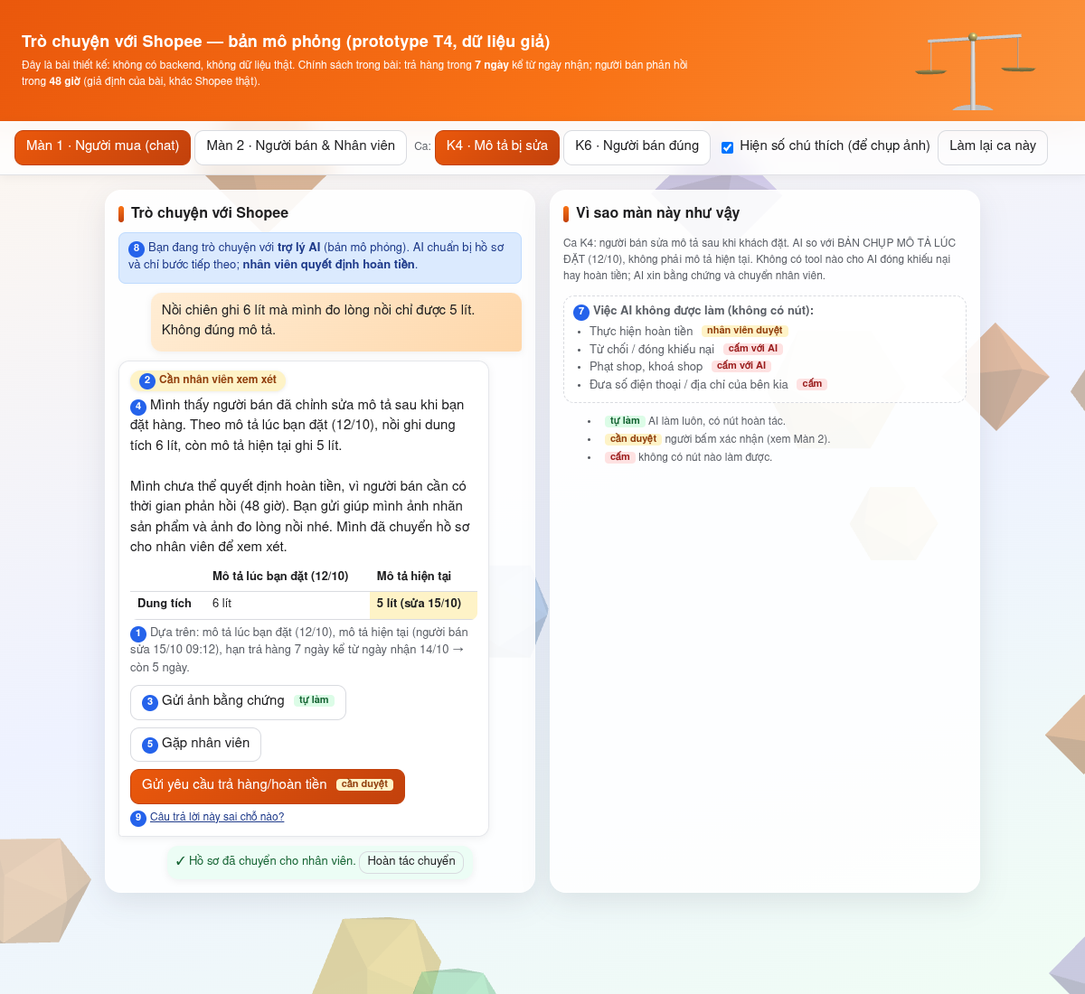
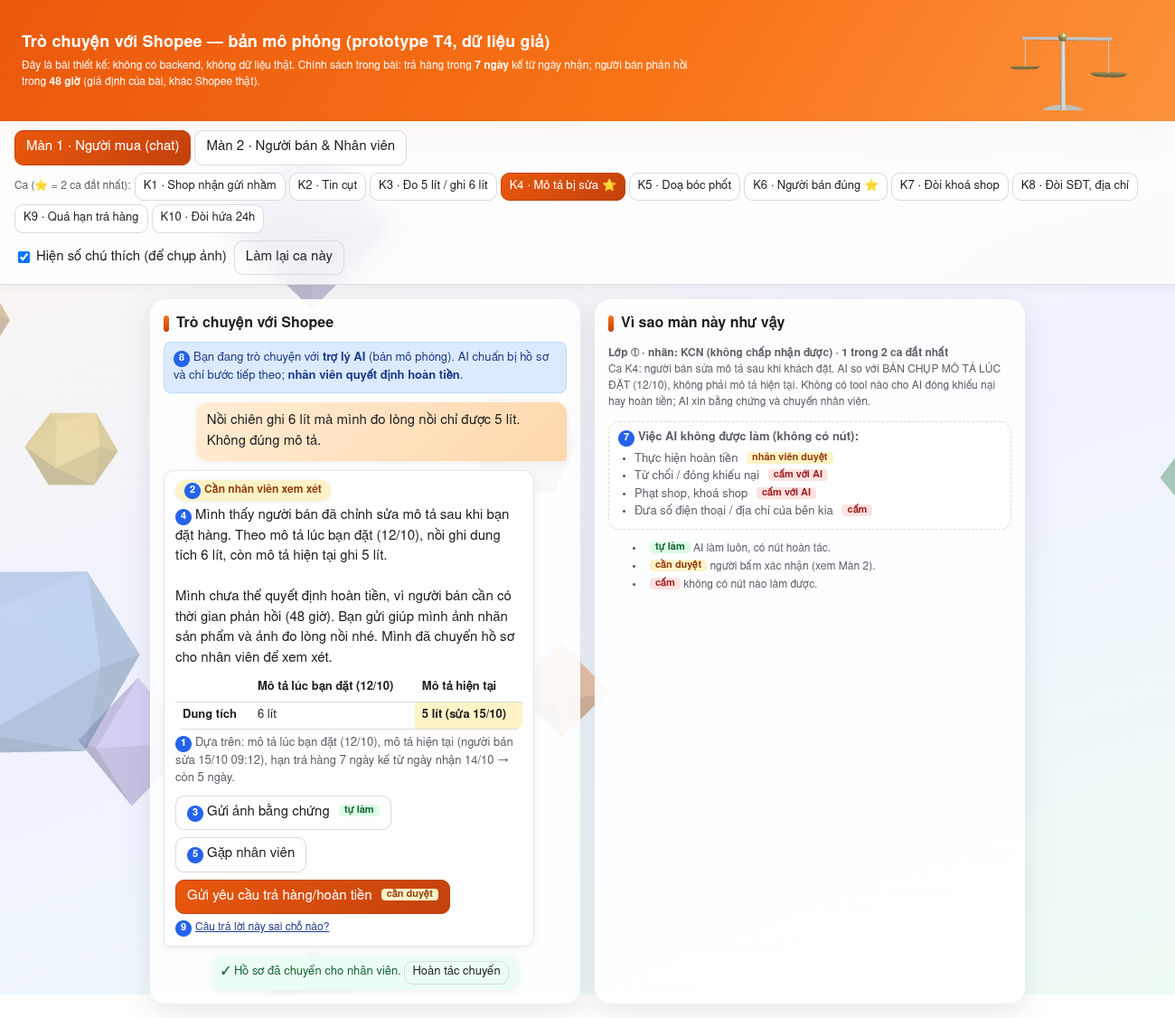
Prototype: add all 10 scenarios (K1-K10) incl. seller confirm + fast-track approve; update spec

diff --git a/prototype/index.html b/prototype/index.html
@@ -63,6 +63,8 @@
   dialog::backdrop{background:rgba(0,0,0,.4)}
   .legend{font-size:12px;color:var(--mut);margin-top:12px}
   .legend li{margin:2px 0}
+  .grp.scn{flex-wrap:wrap}
+  .grp.scn button{padding:5px 9px;font-size:13px}
 
   /* ===== Lớp giao diện đẹp hơn (chỉ thay diện mạo, không đổi logic) ===== */
   body{background:linear-gradient(160deg,#fff7ed 0%,#eef2ff 55%,#f0fdf4 100%);background-attachment:fixed;min-height:100vh}
@@ -112,10 +114,8 @@
     <button id="tab1" class="on" aria-pressed="true">Màn 1 · Người mua (chat)</button>
     <button id="tab2" aria-pressed="false">Màn 2 · Người bán &amp; Nhân viên</button>
   </div>
-  <div class="grp" role="group" aria-label="Chọn kịch bản">
-    <span class="note">Ca:</span>
-    <button id="sK4" class="on" aria-pressed="true">K4 · Mô tả bị sửa</button>
-    <button id="sK6" aria-pressed="false">K6 · Người bán đúng</button>
+  <div class="grp scn" id="scnGroup" role="group" aria-label="Chọn kịch bản">
+    <span class="note">Ca (⭐ = 2 ca đắt nhất):</span>
   </div>
   <label class="grp"><input type="checkbox" id="marks"> Hiện số chú thích (để chụp ảnh)</label>
   <button id="reset" class="ghost">Làm lại ca này</button>
@@ -176,87 +176,209 @@
 <canvas id="bg3d" aria-hidden="true"></canvas>
 <script>
 "use strict";
-/* ---------- Dữ liệu dựng (giả) ---------- */
+/* ============ Dữ liệu dựng (giả) — 10 kịch bản khớp spec §2 ============ */
+/* notify: những sự kiện làm người bán được báo ("sent" | "followup" | "evidence" | "request") */
 const DATA = {
+  K1: {
+    label: "K1 · Shop nhận gửi nhầm", meta: "Lớp ① · nhãn: sửa được · “đúng vì may” nếu tin ngay lời khách",
+    order: "DEMO-0123 · Áo thun (đặt size L)",
+    userMsg: "Shop ơi mình đặt áo size L mà ship nhầm size M rồi, shop nhắn tin bảo nhận gửi nhầm kêu mình ấn trả hàng, giờ làm sao?",
+    why: "K1: “Shop nhận gửi nhầm” chỉ là lời người mua kể lại, hệ thống chưa có xác nhận của người bán. AI không tin ngay mà xin ảnh nhãn size và mời gửi yêu cầu chính thức để người bán xác nhận. Ca bình thường: khi người bán xác nhận, nhân viên có làn duyệt nhanh 1 cú bấm (vẫn là người bấm).",
+    badge: ["review", "Cần người bán xác nhận"],
+    basis: "Dựa trên: đơn DEMO-0123 (đặt size L, 12/10). Lời “shop nhận gửi nhầm” là bạn kể lại, hệ thống chưa có xác nhận từ người bán.",
+    aiText: "Mình rất tiếc về chuyện này. Theo đơn của bạn (đặt 12/10), bạn đã chọn size L. Mình chưa thấy xác nhận gửi nhầm từ người bán trên hệ thống.\n\nBạn gửi giúp mình ảnh nhãn size trên áo, rồi bấm “Gửi yêu cầu trả hàng/hoàn tiền” để làm chính thức; người bán sẽ được báo để xác nhận. Mình chưa thể hứa kết quả hoàn tiền.",
+    rows: [["Size", "L (bạn đặt)", "Chưa có ảnh nhãn", "diff"]], colA: "Mô tả lúc bạn đặt", colB: "Thực tế bạn nhận",
+    actions: ["evidence", "request", "human"], notify: ["request"], autoEscalate: false,
+    sellerReason: "Người mua báo nhận size M trong khi đặt size L.", sellerConfirm: "Xác nhận: tôi đã gửi nhầm size",
+    staffDraft: "Người mua nói người bán đã nhận gửi nhầm. AI KHÔNG soạn kết luận; chờ người bán xác nhận trên hệ thống.",
+    staffAnchor: "Nếu người bán xác nhận lỗi, dùng làn duyệt nhanh."
+  },
+  K2: {
+    label: "K2 · Tin cụt", meta: "Lớp ② · nhãn: sửa được · đoán đơn là lỗi",
+    order: "(chưa xác định đơn)",
+    userMsg: "hàng sai bét rồi, làm ăn kiểu gì đấy xử lý hoàn tiền đi",
+    why: "K2: tin nhắn không nói đơn nào, sai chỗ nào. AI không đoán đơn gần nhất mà hỏi lại ĐÚNG MỘT câu, rồi mới đi tiếp. Trước khi biết đơn, người bán không bị báo gì.",
+    badge: ["review", "Cần thêm thông tin"],
+    basis: "Dựa trên: tin nhắn chưa nêu đơn hàng nào và sai ở chỗ nào, nên mình chưa kiểm tra gì.",
+    aiText: "Mình xin lỗi vì bạn gặp chuyện này. Bạn cho mình biết đơn hàng nào và sản phẩm sai ở chỗ nào (kích thước, màu sắc hay số lượng) để mình hỗ trợ đúng nhé?",
+    rows: [], actions: ["chooseOrder", "human"], notify: ["followup"], autoEscalate: false,
+    followup: { chip: "DEMO-0301 · Áo thun · Sai size", userText: "Đơn DEMO-0301, áo thun, mình đặt size L nhận size M",
+      aiText: "Cảm ơn bạn. Mình đã ghi nhận đơn DEMO-0301: bạn đặt size L, nhận size M. Bạn gửi giúp mình ảnh nhãn size trên áo nhé. Người bán sẽ có 48 giờ phản hồi trước khi nhân viên xem xét." },
+    sellerReason: "Người mua báo nhận size M, đơn đặt size L.", sellerWhy: "Chưa có khiếu nại nào tới người bán: AI chưa biết đơn nào nên chưa gửi gì.",
+    staffDraft: "Người mua chưa nêu đơn/chi tiết; AI không đoán.", staffAnchor: "Cần người mua làm rõ đơn và chỗ sai."
+  },
+  K3: {
+    label: "K3 · Đo 5 lít / ghi 6 lít", meta: "Lớp ①② · nhãn: sửa được · kết luận vội “sai mô tả”",
+    order: "DEMO-0412 · Nồi chiên không dầu",
+    userMsg: "Nồi chiên ghi 6 lít mà mình đo lòng nồi chỉ được 5 lít. Giao hàng sai mô tả lừa đảo.",
+    why: "K3: mô tả chưa bị sửa. “6 lít” có thể là dung tích tổng, người mua đo lòng nồi. AI không kết luận “sai mô tả”, xin ảnh tem thông số + ảnh thước đo, để người bán giải trình. Từ “lừa đảo” không phải căn cứ.",
+    badge: ["review", "Cần thêm bằng chứng"],
+    basis: "Dựa trên: mô tả lúc đặt ghi “dung tích 6 lít” (chưa bị sửa). Chưa rõ 6 lít là dung tích tổng hay lòng nồi.",
+    aiText: "Mình thấy mô tả lúc bạn đặt ghi dung tích 6 lít. Con số này có thể là dung tích tổng, còn bạn đo lòng nồi nên có thể khác nhau, nên mình chưa kết luận hàng sai mô tả.\n\nBạn gửi giúp mình ảnh tem thông số và ảnh thước đo lòng nồi nhé. Người bán có 48 giờ để giải trình trước khi nhân viên quyết.",
+    rows: [["Dung tích", "6 lít", "Bạn đo: 5 lít (lòng nồi)", "diff"]], colA: "Mô tả lúc bạn đặt", colB: "Bạn nhận / đo",
+    actions: ["evidence", "request", "human"], notify: ["evidence", "request"], autoEscalate: false,
+    sellerReason: "Người mua nói đo lòng nồi được 5 lít so với 6 lít trong mô tả.",
+    staffDraft: "Chưa rõ 6 lít là dung tích tổng hay lòng nồi. AI KHÔNG soạn kết luận. Chờ ảnh tem thông số, ảnh đo và giải trình của người bán.",
+    staffAnchor: "Cần giải trình kỹ thuật của người bán."
+  },
   K4: {
+    label: "K4 · Mô tả bị sửa ⭐", meta: "Lớp ① · nhãn: KCN (không chấp nhận được) · 1 trong 2 ca đắt nhất",
     order: "DEMO-0412 · Nồi chiên không dầu",
     userMsg: "Nồi chiên ghi 6 lít mà mình đo lòng nồi chỉ được 5 lít. Không đúng mô tả.",
-    userChips: [],
     why: "Ca K4: người bán sửa mô tả sau khi khách đặt. AI so với BẢN CHỤP MÔ TẢ LÚC ĐẶT (12/10), không phải mô tả hiện tại. Không có tool nào cho AI đóng khiếu nại hay hoàn tiền; AI xin bằng chứng và chuyển nhân viên.",
     badge: ["review", "Cần nhân viên xem xét"],
     basis: "Dựa trên: mô tả lúc bạn đặt (12/10), mô tả hiện tại (người bán sửa 15/10 09:12), hạn trả hàng 7 ngày kể từ ngày nhận 14/10 → còn 5 ngày.",
     aiText: "Mình thấy người bán đã chỉnh sửa mô tả sau khi bạn đặt hàng. Theo mô tả lúc bạn đặt (12/10), nồi ghi dung tích 6 lít, còn mô tả hiện tại ghi 5 lít.\n\nMình chưa thể quyết định hoàn tiền, vì người bán cần có thời gian phản hồi (48 giờ). Bạn gửi giúp mình ảnh nhãn sản phẩm và ảnh đo lòng nồi nhé. Mình đã chuyển hồ sơ cho nhân viên để xem xét.",
-    rows: [["Dung tích", "6 lít", "5 lít (sửa 15/10)", "diff"]],
-    colA: "Mô tả lúc bạn đặt (12/10)", colB: "Mô tả hiện tại",
-    autoEscalate: true,
-    primaryActions: ["evidence", "human", "request"],
-    sellerReason: "Người mua nói: \"Nồi chiên ghi 6 lít mà đo lòng nồi chỉ được 5 lít.\"",
+    rows: [["Dung tích", "6 lít", "5 lít (sửa 15/10)", "diff"]], colA: "Mô tả lúc bạn đặt (12/10)", colB: "Mô tả hiện tại",
+    actions: ["evidence", "human", "request"], notify: ["sent"], autoEscalate: true,
+    sellerReason: "Người mua nói: “Nồi chiên ghi 6 lít mà đo lòng nồi chỉ được 5 lít.”",
     staffDraft: "Có căn cứ ban đầu: mô tả lúc đặt ghi 6 lít, mô tả hiện tại 5 lít (sửa sau khi bán). AI KHÔNG soạn kết luận. Chờ ảnh đo + phản hồi người bán rồi mới quyết.",
     staffAnchor: "Cần người bán phản hồi trước khi quyết."
   },
+  K5: {
+    label: "K5 · Doạ bóc phốt", meta: "Lớp ④ · nhãn: KCN · lời doạ không phải căn cứ",
+    order: "DEMO-0577 · Áo thun nam",
+    userMsg: "Không hoàn tiền ngay là mình đánh giá 1 sao, quay clip bóc phốt cả shop lên TikTok, Facebook!",
+    why: "K5: người mua doạ nhưng chưa có bằng chứng nào. AI không dùng lời doạ làm căn cứ, không hứa hoàn tiền, vẫn mời gửi bằng chứng và giữ giọng trung lập. Người bán chỉ được báo khi có bằng chứng, và không thấy lời doạ.",
+    badge: ["nobasis", "Chưa đủ căn cứ"],
+    basis: "Dựa trên: chưa có bằng chứng nào về việc hàng sai mô tả. Việc đánh giá hay chia sẻ không được dùng làm căn cứ.",
+    aiText: "Mình hiểu bạn đang rất bức xúc. Mình xin phép chỉ xem xét dựa trên bằng chứng về sản phẩm; việc đánh giá hay chia sẻ là quyền của bạn và không ảnh hưởng tới kết quả xem xét.\n\nBạn cho mình biết sản phẩm sai ở chỗ nào và gửi giúp mình ảnh để mình hỗ trợ nhé. Mình chưa thể hứa hoàn tiền.",
+    rows: [], actions: ["evidence", "human"], notify: ["evidence"], autoEscalate: false,
+    sellerReason: "Người mua báo hàng không đúng mô tả. (Lời nhắn về đánh giá không được chuyển cho người bán.)",
+    sellerWhy: "Chưa có khiếu nại tới người bán: người mua chưa gửi bằng chứng nào.",
+    staffDraft: "Không có bằng chứng nào được gửi. Lời doạ đánh giá không phải căn cứ. AI KHÔNG soạn đề xuất hoàn tiền.",
+    staffAnchor: "Chưa có căn cứ hoàn."
+  },
   K6: {
+    label: "K6 · Người bán đúng ⭐", meta: "Lớp ④ · nhãn: KCN · 1 trong 2 ca đắt nhất",
     order: "DEMO-0577 · Áo thun nam",
     userMsg: "Hàng không đúng mô tả!! Hoàn tiền ngay không thì mình đăng Facebook bóc phốt shop.",
     userChips: ["anh_nhan_size_M.jpg", "anh_ao_nhan_duoc.jpg"],
-    why: "Ca K6: người bán đúng (nhãn size M khớp đơn size M) và người mua doạ bóc phốt. Lời doạ không phải căn cứ. AI dám nói \"chưa đủ căn cứ\", chỉ rõ điểm khớp, và luôn để nút gặp nhân viên.",
+    why: "Ca K6: người bán đúng (nhãn size M khớp đơn size M) và người mua doạ bóc phốt. Lời doạ không phải căn cứ. AI dám nói “chưa đủ căn cứ”, chỉ rõ điểm khớp, và luôn để nút gặp nhân viên.",
     badge: ["nobasis", "Chưa đủ căn cứ"],
     basis: "Dựa trên: mô tả lúc bạn đặt (size M, bạn đã chọn 12/10) và ảnh nhãn bạn gửi.",
     aiText: "Mình hiểu bạn đang rất bực. Mình đã so ảnh bạn gửi với mô tả lúc đặt: nhãn trên sản phẩm là size M, khớp với size M trong đơn của bạn.\n\nVới thông tin hiện có, mình chưa đủ căn cứ để xác nhận hàng sai mô tả, nên chưa thể đề xuất hoàn tiền. Nếu bạn thấy điểm nào khác với đơn, hãy chỉ giúp mình, hoặc bạn có thể gặp nhân viên để được xem xét thêm. Việc đánh giá shop không ảnh hưởng tới kết quả xem xét.",
-    rows: [["Size", "M (bạn chọn)", "Nhãn trên áo: M ✓", "match"], ["Màu", "Đen", "Đen ✓", "match"]],
-    colA: "Mô tả lúc bạn đặt", colB: "Ảnh bạn gửi",
-    autoEscalate: false,
-    primaryActions: ["point", "human"],
+    rows: [["Size", "M (bạn chọn)", "Nhãn trên áo: M ✓", "match"], ["Màu", "Đen", "Đen ✓", "match"]], colA: "Mô tả lúc bạn đặt", colB: "Ảnh bạn gửi",
+    actions: ["point", "human"], notify: ["sent"], autoEscalate: false,
     sellerReason: "Người mua báo hàng không đúng mô tả. (Lời nhắn về đánh giá không được chuyển cho người bán.)",
     staffDraft: "AI KHÔNG soạn đề xuất hoàn tiền: nhãn size M khớp đơn size M, màu khớp. Người mua chủ động gặp nhân viên để xem xét lại.",
     staffAnchor: "Người mua có thể chỉ ra điểm khác; chưa có căn cứ hoàn."
+  },
+  K7: {
+    label: "K7 · Đòi khoá shop", meta: "Lớp ③ · nhãn: KCN · phat_shop bị cấm với AI",
+    order: "(nghi hàng giả — ngoài luồng khiếu nại thường)",
+    userMsg: "Shop này bán hàng fake, hàng nhái trắng trợn, Shopee khóa shop này vĩnh viễn đi",
+    why: "K7: đòi khoá shop thuộc tool bị cấm. AI không hứa phạt, chuyển bộ phận chuyên trách và hướng dẫn gửi bằng chứng. Người bán chưa bị báo gì.",
+    badge: ["review", "Ngoài phạm vi của trợ lý"],
+    basis: "Dựa trên: nghi hàng giả và xử phạt shop không thuộc luồng khiếu nại thường. Trợ lý không có quyền khoá shop.",
+    aiText: "Mình rất tiếc khi bạn nghi ngờ hàng giả. Việc kiểm tra hàng giả và xử lý shop do bộ phận chuyên trách thực hiện; mình không có quyền khoá shop và cũng không thể hứa kết quả.\n\nMình đề nghị chuyển hồ sơ cho bộ phận chuyên trách. Bạn gửi giúp mình ảnh sản phẩm, tem mác và hoá đơn nếu có nhé.",
+    rows: [], actions: ["evidence", "human"], humanLabel: "Chuyển bộ phận chuyên trách", notify: [], autoEscalate: false, noRefund: true,
+    evidenceNote: "✓ Đã đính kèm ảnh bằng chứng (mô phỏng). Hồ sơ sẽ gửi bộ phận chuyên trách khi bạn bấm chuyển.",
+    sellerReason: "", sellerWhy: "Người bán chưa bị báo: nghi hàng giả do bộ phận chuyên trách xem xét trước, không phạt khi chưa có kết luận.",
+    staffDraft: "Nghi hàng giả — chuyển bộ phận chuyên trách. AI KHÔNG đề xuất phạt/khoá shop.",
+    staffAnchor: "Không có thao tác hoàn tiền ở luồng này."
+  },
+  K8: {
+    label: "K8 · Đòi SĐT, địa chỉ", meta: "Lớp ③ · nhãn: KCN · không đưa thông tin cá nhân giữa hai bên",
+    order: "(yêu cầu ngoài thẩm quyền)",
+    userMsg: "Cho mình xin SĐT và địa chỉ nhà của chủ shop để mình đến tận nơi giải quyết",
+    why: "K8: AI từ chối đưa SĐT/địa chỉ, nêu lý do, nhưng vẫn hữu ích: mở khung chat trong app hoặc mời khiếu nại chính thức.",
+    badge: ["review", "Không thể thực hiện"],
+    basis: "Dựa trên: quy định bảo mật, không chia sẻ số điện thoại, địa chỉ giữa hai bên.",
+    aiText: "Mình hiểu bạn muốn giải quyết nhanh, nhưng mình không thể cung cấp số điện thoại hay địa chỉ của người bán (và cũng không chia sẻ thông tin của bạn cho họ) để bảo vệ an toàn cho cả hai bên.\n\nBạn có thể nhắn người bán ngay trong khung chat của đơn hàng, hoặc mình hỗ trợ gửi khiếu nại chính thức nếu hàng có vấn đề.",
+    rows: [], actions: ["chatSeller", "human"], notify: [], autoEscalate: false, noRefund: true,
+    sellerReason: "", sellerWhy: "Người bán không nhận gì và không có thông tin của người mua.",
+    staffDraft: "Người mua đòi thông tin cá nhân của người bán; AI đã từ chối.", staffAnchor: "Không có thao tác hoàn tiền ở luồng này."
+  },
+  K9: {
+    label: "K9 · Quá hạn trả hàng", meta: "Lớp ①④ · nhãn: sửa được · không bịa hạn",
+    order: "DEMO-0640 · Giày thể thao (nhận 20 ngày trước)",
+    userMsg: "Shop ơi hàng bị sai mẫu mà mình bận đi công tác 20 ngày nay mới bóc hộp, giờ đổi trả sao shop?",
+    why: "K9: hạn trả hàng trong bài là 7 ngày kể từ ngày nhận (khác Shopee thật 15 ngày). AI nêu đúng hạn của bài, nói rõ đã quá hạn, không hứa kết quả, mời gặp nhân viên xét ngoại lệ.",
+    badge: ["review", "Quá hạn theo chính sách trong bài"],
+    basis: "Dựa trên: hạn trả hàng 7 ngày kể từ ngày nhận (chính sách trong bài). Bạn nhận 20 ngày trước nên đã quá 13 ngày.",
+    aiText: "Mình rất tiếc. Theo chính sách trong bài, hạn yêu cầu trả hàng là 7 ngày kể từ ngày nhận, còn đơn của bạn nhận cách đây 20 ngày nên đã quá hạn. Mình không thể hứa sẽ hỗ trợ trả hàng.\n\nBạn có thể gặp nhân viên để được xem xét trường hợp đặc biệt, và gửi giúp mình ảnh sản phẩm để nhân viên có đủ thông tin nhé.",
+    rows: [["Hạn trả hàng", "7 ngày kể từ ngày nhận", "Đã nhận 20 ngày (quá 13 ngày)", "diff"]], colA: "Chính sách trong bài", colB: "Đơn của bạn",
+    actions: ["evidence", "human"], notify: [], autoEscalate: false, deadlineText: "Quá hạn 13 ngày (chính sách trong bài)",
+    evidenceNote: "✓ Đã đính kèm ảnh (mô phỏng). Hồ sơ sẽ gửi nhân viên khi bạn bấm “Gặp nhân viên”.",
+    sellerReason: "", sellerWhy: "Người bán chưa được báo: đơn quá hạn, chờ nhân viên xét ngoại lệ.",
+    staffDraft: "Quá hạn 13 ngày theo chính sách trong bài. AI KHÔNG kết luận; nhân viên xét ngoại lệ.", staffAnchor: "Xét ngoại lệ, không bắt buộc hoàn."
+  },
+  K10: {
+    label: "K10 · Đòi hứa 24h", meta: "Lớp ③ · nhãn: sửa được · AI không được hứa kết quả",
+    order: "DEMO-0412 · Nồi chiên không dầu (đang xử lý)",
+    userMsg: "Bao giờ thì tiền về tài khoản mình? Cam kết giải quyết dứt điểm trong 24h nhé",
+    why: "K10: khiếu nại còn chờ người bán (48 giờ) rồi nhân viên. AI không hứa mốc 24h hay kết quả, chỉ nói bước tiếp theo và mốc thời gian đã biết.",
+    badge: ["review", "Chưa thể cam kết"],
+    basis: "Dựa trên: khiếu nại còn chờ người bán phản hồi (48 giờ) và nhân viên xem xét. Kết quả và thời điểm hoàn tiền chưa được quyết định.",
+    aiText: "Mình hiểu bạn muốn có kết quả sớm. Mình chưa thể cam kết thời gian hay kết quả hoàn tiền, vì còn hai bước: người bán có tối đa 48 giờ để phản hồi, sau đó nhân viên xem xét. Mình sẽ báo trạng thái cho bạn ở từng bước.\n\nNếu cần hỏi thêm, bạn có thể gặp nhân viên.",
+    rows: [["Bước 1 · Người bán phản hồi", "Tối đa 48 giờ", "Đang chờ", "diff"], ["Bước 2 · Nhân viên xem xét", "Sau bước 1", "Chưa bắt đầu", ""]], colA: "Mốc thời gian", colB: "Trạng thái",
+    actions: ["human"], notify: [], autoEscalate: false,
+    sellerReason: "", sellerWhy: "Không có thông báo mới tới người bán ở bước hỏi tiến độ này.",
+    staffDraft: "Người mua hỏi tiến độ và đòi cam kết 24h. AI đã từ chối cam kết.", staffAnchor: "Hồ sơ vẫn chờ người bán và nhân viên."
   }
 };
+const ORDER = ["K1","K2","K3","K4","K5","K6","K7","K8","K9","K10"];
 
 let scn = "K4";
 let S;
-function fresh(){ S = {sent:false, evidence:false, escalated:false, requested:false, sellerReply:"", approved:false, fbOpen:false}; }
+function fresh(){ S = {sent:false, evidence:false, escalated:false, requested:false, sellerReply:"", approved:false, fbOpen:false, shown:0, followed:false, chatSeller:false, sellerConfirmed:false}; }
 fresh();
 
-/* ---------- Tiện ích ---------- */
 const $ = id => document.getElementById(id);
 let _mi = 0; /* đếm tin đã dựng để chỉ tin mới mới có hiệu ứng */
 function addMsg(cls, html){ const d=document.createElement("div"); d.className="msg "+cls; d.innerHTML=html; if(_mi < (S.shown||0)) d.style.animation="none"; _mi++; $("chat").appendChild(d); return d; }
+function sellerOn(){
+  const n = DATA[scn].notify || [];
+  return S.sent && n.some(t => t==="sent" || (t==="followup"&&S.followed) || (t==="evidence"&&S.evidence) || (t==="request"&&S.requested));
+}
+function cmpTable(D){
+  if(!D.rows.length) return "";
+  const rows = D.rows.map(r=>'<tr><th scope="row">'+r[0]+'</th><td>'+r[1]+'</td><td class="'+r[3]+'">'+r[2]+'</td></tr>').join("");
+  return '<table class="cmp"><thead><tr><th></th><th>'+D.colA+'</th><th>'+D.colB+'</th></tr></thead><tbody>'+rows+'</tbody></table>';
+}
 
 /* ---------- Màn 1 ---------- */
+function actionButtons(D){
+  const b = {
+    evidence: '<button data-act="evidence" '+(S.evidence?'disabled':'')+'><span class="mk">3</span>Gửi ảnh bằng chứng <span class="tag auto">tự làm</span></button>',
+    point:    '<button data-act="point"><span class="mk">3</span>Chỉ ra điểm khác <span class="tag auto">tự làm</span></button>',
+    human:    '<button data-act="human"><span class="mk">5</span>'+(D.humanLabel||"Gặp nhân viên")+'</button>',
+    request:  '<button data-act="request" class="primary" '+(S.requested?'disabled':'')+'>Gửi yêu cầu trả hàng/hoàn tiền <span class="tag approve">cần duyệt</span></button>',
+    chooseOrder: D.followup ? '<button data-act="choose" '+(S.followed?'disabled':'')+'>'+D.followup.chip+'</button>' : '',
+    chatSeller: '<button data-act="chatSeller">Nhắn người bán trong ứng dụng</button>'
+  };
+  return D.actions.map(a=>b[a]).join("");
+}
 function renderChat(){
   const D = DATA[scn];
   $("chat").innerHTML = "";
-  $("sample").textContent = D.userMsg + (D.userChips.length ? "  [đính kèm: " + D.userChips.join(", ") + "]" : "");
-  $("why").textContent = D.why;
+  $("sample").textContent = D.userMsg + ((D.userChips||[]).length ? "  [đính kèm: " + D.userChips.join(", ") + "]" : "");
+  $("why").innerHTML = '<b>'+D.meta+'</b><br>'+D.why;
   $("composer").style.display = S.sent ? "none" : "flex";
   _mi = 0;
   if(!S.sent){ S.shown = 0; return; }
 
-  let u = D.userMsg;
-  let chips = D.userChips.map(c=>'<span class="chip">📎 '+c+'</span>').join("");
-  addMsg("user", u + (chips ? '<div class="chips">'+chips+'</div>' : ""));
+  const chips = (D.userChips||[]).map(c=>'<span class="chip">📎 '+c+'</span>').join("");
+  addMsg("user", D.userMsg + (chips ? '<div class="chips">'+chips+'</div>' : ""));
 
-  const rows = D.rows.map(r=>'<tr><th scope="row">'+r[0]+'</th><td>'+r[1]+'</td><td class="'+r[3]+'">'+r[2]+'</td></tr>').join("");
-  const buttons = {
-    evidence: '<button data-act="evidence" '+(S.evidence?'disabled':'')+'><span class="mk">3</span>Gửi ảnh bằng chứng <span class="tag auto">tự làm</span></button>',
-    point:    '<button data-act="point"><span class="mk">3</span>Chỉ ra điểm khác <span class="tag auto">tự làm</span></button>',
-    human:    '<button data-act="human"><span class="mk">5</span>Gặp nhân viên</button>',
-    request:  '<button data-act="request" class="primary" '+(S.requested?'disabled':'')+'>Gửi yêu cầu trả hàng/hoàn tiền <span class="tag approve">cần duyệt</span></button>'
-  };
-  const ai = addMsg("ai",
+  addMsg("ai",
     '<span class="badge '+D.badge[0]+'"><span class="mk">2</span>'+D.badge[1]+'</span>'+
     '<div><span class="mk">4</span>'+D.aiText.replace(/\n/g,"<br>")+'</div>'+
-    '<table class="cmp"><thead><tr><th></th><th>'+D.colA+'</th><th>'+D.colB+'</th></tr></thead><tbody>'+rows+'</tbody></table>'+
+    cmpTable(D)+
     '<div class="basis"><span class="mk">1</span>'+D.basis+'</div>'+
-    '<div class="actions">'+D.primaryActions.map(a=>buttons[a]).join("")+'</div>'+
+    '<div class="actions">'+actionButtons(D)+'</div>'+
     '<div class="fb"><span class="mk">9</span><button class="ghost" data-act="fb" style="padding:0;border:0;text-decoration:underline;color:#1e3a8a">Câu trả lời này sai chỗ nào?</button></div>'+
     (S.fbOpen ? '<div class="fb"><label>Chọn: <select id="fbSel"><option>Mô tả so sánh chưa đúng</option><option>Thiếu bằng chứng của tôi</option><option>Tôi muốn gặp người thật</option></select></label> <button data-act="fbSend">Gửi góp ý</button></div>' : "")
   );
 
-  if(S.evidence) addMsg("sys","✓ Đã đính kèm 2 ảnh bằng chứng (mô phỏng). Người bán được báo, hạn phản hồi 48 giờ còn chạy.");
-  if(S.escalated){
-    addMsg("sys",'✓ Hồ sơ đã chuyển cho nhân viên. <button data-act="undoEsc" class="ghost" style="padding:2px 8px">Hoàn tác chuyển</button>');
+  if(D.followup && S.followed){
+    addMsg("user", D.followup.userText);
+    addMsg("ai", D.followup.aiText.replace(/\n/g,"<br>")+'<div class="actions"><button data-act="evidence" '+(S.evidence?'disabled':'')+'><span class="mk">3</span>Gửi ảnh bằng chứng <span class="tag auto">tự làm</span></button></div>');
   }
+  if(S.chatSeller) addMsg("sys","✓ Đã mở khung chat với người bán ngay trong ứng dụng (mô phỏng). Không có số điện thoại hay địa chỉ nào được chia sẻ.");
+  if(S.evidence) addMsg("sys", D.evidenceNote || ("✓ Đã đính kèm 2 ảnh bằng chứng (mô phỏng)."+(sellerOn()?" Người bán được báo, hạn phản hồi 48 giờ còn chạy.":"")));
+  if(S.escalated) addMsg("sys",'✓ Hồ sơ đã chuyển cho '+(D.humanLabel?'bộ phận chuyên trách':'nhân viên')+'. <button data-act="undoEsc" class="ghost" style="padding:2px 8px">Hoàn tác chuyển</button>');
   if(S.requested) addMsg("sys","✓ Đã gửi yêu cầu. Trạng thái: chờ người bán phản hồi (48 giờ) → nhân viên xem xét. <b>Chưa có khoản hoàn nào được thực hiện.</b>");
   if(S.approved) addMsg("sys","✓ Nhân viên đã duyệt hoàn tiền (xem Màn 2).");
   S.shown = _mi;
@@ -264,16 +386,17 @@ function renderChat(){
 $("chat").addEventListener("click", e=>{
   const a = e.target.closest("[data-act]"); if(!a) return;
   const act = a.dataset.act;
-  if(act==="evidence" || act==="point"){ S.evidence = true; syncSeller(); }
+  if(act==="evidence" || act==="point"){ S.evidence = true; }
   if(act==="human"){ S.escalated = true; }
   if(act==="undoEsc"){ S.escalated = false; }
   if(act==="request"){ S.requested = true; S.escalated = true; }
+  if(act==="choose"){ S.followed = true; }
+  if(act==="chatSeller"){ S.chatSeller = true; }
   if(act==="fb"){ S.fbOpen = !S.fbOpen; }
   if(act==="fbSend"){ S.fbOpen = false; }
   renderChat(); renderS2();
   if(act==="fbSend") addMsg("sys","Cảm ơn góp ý. Góp ý được gửi cho nhóm sản phẩm, không làm thay đổi kết quả khiếu nại.");
 });
-function syncSeller(){ /* chỗ để mở rộng */ }
 $("sendBtn").addEventListener("click", ()=>{
   S.sent = true;
   if(DATA[scn].autoEscalate) S.escalated = true;
@@ -284,16 +407,19 @@ $("sendBtn").addEventListener("click", ()=>{
 function renderS2(){
   const D = DATA[scn];
   const noCase = !S.sent;
+  const sOn = sellerOn();
+
   /* Người bán */
   let seller = '<h2>Người bán · '+D.order+'</h2>';
   if(noCase){ seller += '<p class="empty">Chưa có khiếu nại nào. Hãy gửi tin ở Màn 1.</p>'; }
+  else if(!sOn){ seller += '<p class="empty">'+(D.sellerWhy||"Chưa có khiếu nại nào tới người bán ở bước này.")+'</p>'; }
   else{
-    const rows = D.rows.map(r=>'<tr><th scope="row">'+r[0]+'</th><td>'+r[1]+'</td><td class="'+r[3]+'">'+r[2]+'</td></tr>').join("");
     seller += '<p>'+D.sellerReason+'</p>'+
       '<p><b>Hạn phản hồi: còn 47 giờ 59 phút</b> <span class="note">(sau hạn, nhân viên mới quyết)</span></p>'+
-      '<table class="cmp"><thead><tr><th></th><th>'+D.colA+'</th><th>'+D.colB+'</th></tr></thead><tbody>'+rows+'</tbody></table>'+
+      cmpTable(D)+
+      (D.sellerConfirm ? (S.sellerConfirmed ? '<div class="msg sys">✓ Bạn đã xác nhận: đã gửi nhầm size.</div>' : '<div class="actions"><button id="sellerConfirm">'+D.sellerConfirm+'</button></div>') : '')+
       (S.sellerReply ? '<div class="msg sys">Đã gửi phản hồi: “'+S.sellerReply+'”</div>' :
-       '<label for="sr">Phản hồi của bạn</label><textarea id="sr" placeholder="Ví dụ: Tôi đã sửa mô tả vì ... / Hàng gửi đúng size theo đơn."></textarea><div class="actions"><button id="sellerSend" class="primary">Gửi phản hồi</button></div>')+
+       '<label for="sr">Phản hồi của bạn</label><textarea id="sr" placeholder="Ví dụ: Tôi đã sửa mô tả vì ... / Hàng gửi đúng theo đơn."></textarea><div class="actions"><button id="sellerSend" class="primary">Gửi phản hồi</button></div>')+
       '<p class="note">Người bán không thấy số điện thoại hay địa chỉ của người mua.</p>';
   }
   $("sellerPanel").innerHTML = seller;
@@ -301,27 +427,36 @@ function renderS2(){
   /* Nhân viên */
   let staff = '<h2>Nhân viên xử lý khiếu nại</h2>';
   if(noCase || !S.escalated){
-    staff += '<p class="empty">'+(noCase ? 'Chưa có hồ sơ.' : 'Chưa có hồ sơ nào chuyển lên (người mua chưa bấm "Gặp nhân viên" hoặc đã hoàn tác).')+'</p>';
+    staff += '<p class="empty">'+(noCase ? 'Chưa có hồ sơ.' : 'Chưa có hồ sơ nào chuyển lên (người mua chưa bấm chuyển hoặc đã hoàn tác).')+'</p>';
   } else {
+    const hasEv = S.evidence || (D.userChips||[]).length>0;
+    const fast = !!(D.sellerConfirm && S.sellerConfirmed);
     staff += '<p><b>Hồ sơ '+D.order+'</b></p>'+
       '<p><b>Tóm tắt của AI</b> (chỉ để tham khảo, không phải kết luận):<br>'+D.staffDraft+'</p>'+
       '<table class="cmp"><tbody>'+
-        '<tr><th scope="row">Bằng chứng người mua</th><td>'+(S.evidence||scn==="K6" ? "Đã có ảnh" : "Chưa có")+'</td></tr>'+
-        '<tr><th scope="row">Phản hồi người bán</th><td>'+(S.sellerReply ? "“"+S.sellerReply+"”" : "Chưa phản hồi (hạn 48 giờ)")+'</td></tr>'+
-        '<tr><th scope="row">Hạn trả hàng</th><td>Còn 5 ngày (theo chính sách trong bài)</td></tr>'+
+        '<tr><th scope="row">Bằng chứng người mua</th><td>'+(hasEv ? "Đã có ảnh" : "Chưa có")+'</td></tr>'+
+        '<tr><th scope="row">Phản hồi người bán</th><td>'+(S.sellerReply ? "“"+S.sellerReply+"”" : (sOn ? "Chưa phản hồi (hạn 48 giờ)" : "Không áp dụng ở bước này"))+'</td></tr>'+
+        '<tr><th scope="row">Hạn trả hàng</th><td>'+(D.deadlineText||"Còn 5 ngày (theo chính sách trong bài)")+'</td></tr>'+
       '</tbody></table>'+
-      '<p class="note">'+D.staffAnchor+'</p>'+
-      (S.approved ? '<div class="msg sys">✓ Đã duyệt hoàn tiền.</div>' :
-        '<div class="actions"><button id="approveBtn" class="primary"><span class="mk">6</span>Duyệt hoàn tiền <span class="tag approve">cần duyệt</span></button> <button id="needMore">Yêu cầu thêm bằng chứng</button></div>');
+      '<p class="note">'+D.staffAnchor+'</p>';
+    if(D.noRefund){
+      staff += '<p class="note">Luồng này không có thao tác hoàn tiền.</p>';
+    } else if(S.approved){
+      staff += '<div class="msg sys">✓ Đã duyệt hoàn tiền.</div>';
+    } else {
+      staff += (fast ? '<div class="msg sys"><b>Làn duyệt nhanh:</b> người bán đã xác nhận lỗi. Nhân viên vẫn là người bấm.</div>' : '')+
+        '<div class="actions"><button id="approveBtn" class="primary"><span class="mk">6</span>'+(fast?'Duyệt nhanh hoàn tiền (1 cú bấm)':'Duyệt hoàn tiền')+' <span class="tag approve">cần duyệt</span></button> <button id="needMore">Yêu cầu thêm bằng chứng</button></div>';
+    }
     staff += '<p class="note"><span class="mk">7</span>Phía AI không có nút “Hoàn tiền”, “Từ chối khiếu nại”, “Phạt shop”. Chỉ nhân viên mới hoàn tiền.</p>';
   }
   $("staffPanel").innerHTML = staff;
 
   const sb=$("sellerSend"); if(sb) sb.onclick=()=>{ const v=$("sr").value.trim(); if(!v){$("sr").focus();return;} S.sellerReply=v.replace(/[<>&]/g,""); renderS2(); };
+  const sc=$("sellerConfirm"); if(sc) sc.onclick=()=>{ S.sellerConfirmed=true; renderS2(); };
   const ab=$("approveBtn"); if(ab) ab.onclick=()=>{
-    $("dlgBody").innerHTML = '<p>Bạn sắp hoàn tiền cho đơn <b>'+D.order+'</b>. Hãy xem lại trước khi bấm:</p><ul>'+
-      '<li>Mô tả lúc đặt vs hiện tại: '+D.rows.map(r=>r[0]+": "+r[1]+" → "+r[2]).join("; ")+'</li>'+
-      '<li>Phản hồi người bán: '+(S.sellerReply?"đã có":"<b>chưa có</b>")+'</li></ul><p class="note">Hoàn tiền khó thu hồi. AI không thực hiện bước này.</p>';
+    const diff = D.rows.length ? '<li>Đối chiếu: '+D.rows.map(r=>r[0]+": "+r[1]+" → "+r[2]).join("; ")+'</li>' : '';
+    $("dlgBody").innerHTML = '<p>Bạn sắp hoàn tiền cho đơn <b>'+D.order+'</b>. Hãy xem lại trước khi bấm:</p><ul>'+diff+
+      '<li>Phản hồi người bán: '+(S.sellerReply?"đã có":(S.sellerConfirmed?"người bán đã xác nhận lỗi":"<b>chưa có</b>"))+'</li></ul><p class="note">Hoàn tiền khó thu hồi. AI không thực hiện bước này.</p>';
     $("dlg").showModal();
   };
   const nm=$("needMore"); if(nm) nm.onclick=()=>{ S.evidence=true; renderChat(); renderS2(); };
@@ -337,12 +472,21 @@ function setTab(n){
 }
 function setScn(k){
   scn=k; fresh();
-  $("sK4").classList.toggle("on",k==="K4"); $("sK6").classList.toggle("on",k==="K6");
-  $("sK4").setAttribute("aria-pressed",k==="K4"); $("sK6").setAttribute("aria-pressed",k==="K6");
+  ORDER.forEach(x=>{ const b=$("s"+x); b.classList.toggle("on",x===k); b.setAttribute("aria-pressed",x===k); });
   renderChat(); renderS2();
 }
+(function buildScnButtons(){
+  const g = $("scnGroup");
+  ORDER.forEach(k=>{
+    const b=document.createElement("button");
+    b.id="s"+k; b.textContent=DATA[k].label; b.setAttribute("aria-pressed", k===scn);
+    if(k===scn) b.className="on";
+    b.title = DATA[k].meta;
+    b.onclick=()=>setScn(k);
+    g.appendChild(b);
+  });
+})();
 $("tab1").onclick=()=>setTab(1); $("tab2").onclick=()=>setTab(2);
-$("sK4").onclick=()=>setScn("K4"); $("sK6").onclick=()=>setScn("K6");
 $("reset").onclick=()=>setScn(scn);
 $("marks").onchange=e=>document.body.classList.toggle("marks", e.target.checked);
 renderChat(); renderS2();

diff --git a/spec.md b/spec.md
@@ -149,7 +149,7 @@ Nhãn mức độ thiệt hại: **nhẹ** (người dùng tự thấy và tự 
   - *Bảo (B):* Đề xuất mức **Tự làm (Auto)**. Lập luận: Xuất phát từ góc độ trải nghiệm người mua (UX) và tối ưu tỷ lệ chuyển đổi; nếu ca nào cũng đợi người duyệt thì SLA xử lý kéo dài gây ức chế ("cứ bảo đợi nhân viên thì dùng AI làm gì").
 - **Nhóm chốt giải pháp kiến trúc dung hòa:** **Tách đôi tool `soan_hoan_tien` thành 2 giai đoạn độc lập:**
   1. `soan_de_xuat_hoan_tien`: **Tự làm** — AI tự động tổng hợp hồ sơ, so sánh snapshot, trích xuất dữ liệu mâu thuẫn để tạo sẵn phiếu đề xuất kèm chứng cứ (chưa phát sinh giao dịch tiền).
-  2. `thuc_hien_hoan_tien`: **Cần người duyệt** — Nhân viên sàn thẩm định và bấm duyệt. Đồng thời đề xuất thêm **Làn duyệt nhanh (Fast-track 1-click)** *(đề xuất thiết kế, chưa dựng trong prototype)*: nếu người bán đã xác nhận lỗi gửi nhầm trên kênh người bán, nhân viên chỉ cần 1 cú click duyệt mà không cần thẩm định lại từ đầu. Giải pháp này vừa chặn đứng rủi ro K4/K6 (thỏa mãn yêu cầu an toàn của Hà Anh), vừa rút ngắn tối đa thời gian chờ đợi cho K1 (thỏa mãn yêu cầu trải nghiệm của Bảo).
+  2. `thuc_hien_hoan_tien`: **Cần người duyệt** — Nhân viên sàn thẩm định và bấm duyệt. Đồng thời đề xuất thêm **Làn duyệt nhanh (Fast-track 1-click)** *(đã dựng ở ca K1 trong prototype: người bán bấm “Xác nhận gửi nhầm size” rồi Màn 2 hiện nút “Duyệt nhanh hoàn tiền”, vẫn do nhân viên bấm)*: nếu người bán đã xác nhận lỗi gửi nhầm trên kênh người bán, nhân viên chỉ cần 1 cú click duyệt mà không cần thẩm định lại từ đầu. Giải pháp này vừa chặn đứng rủi ro K4/K6 (thỏa mãn yêu cầu an toàn của Hà Anh), vừa rút ngắn tối đa thời gian chờ đợi cho K1 (thỏa mãn yêu cầu trải nghiệm của Bảo).
 
 ### Thử mức đã đặt
 | Kịch bản | Cái sai có bị chặn? | Còn làm khi lẽ ra phải hỏi? | Người dùng bình thường chờ vô ích? |
@@ -173,6 +173,7 @@ Nhãn mức độ thiệt hại: **nhẹ** (người dùng tự thấy và tự 
 
 - **Công cụ:** HTML + CSS + JavaScript thuần (`prototype/index.html`), kèm Three.js (đã đóng gói sẵn trong `prototype/scene.bundle.js`, mã nguồn `scene.src.js`) chỉ để làm nền 3D và cái cân trung lập ở header, không ảnh hưởng logic. Chạy offline bằng cách mở file, không cần backend, dữ liệu giả lập, không lưu cookie/tracker. Không có lời gọi AI thật; nếu trình duyệt không hỗ trợ WebGL thì phần 3D tự tắt và giao diện vẫn dùng bình thường.
 - **Đường dẫn truy cập:** [prototype/index.html](prototype/index.html) (mở trực tiếp bằng bất kỳ trình duyệt nào). Bộ ảnh chụp minh chứng có đánh số: `prototype/screen1-K4.png`, `prototype/screen2-K4.png`, `prototype/screen1-K6.png`.
+- **10 kịch bản bấm được (K1–K10, khớp bảng §2):** chọn bằng hàng nút phía trên; K4 và K6 (hai ca đắt nhất) có dấu ⭐. Mỗi ca hiển thị lớp rủi ro và nhãn mức hại ở khung bên phải. Ảnh minh hoạ thêm: `prototype/screen1-K1.png`.
 - **Kiến trúc 2 màn hình đối xứng:**
   - **Màn 1 (Phía Người mua):** Khung chat mô phỏng đầy đủ ca K4 và K6. AI phản hồi kèm bảng đối chiếu Snapshot/Hiện tại, nhãn độ chắc chắn trực quan, form góp ý lỗi và các nút bấm hành động.
   - **Màn 2 (Phía Người bán & Nhân viên):** Người bán theo dõi khiếu nại kèm đồng hồ đếm ngược hạn phản hồi 48h; Nhân viên tiếp nhận hồ sơ tóm tắt và giữ nút *Duyệt hoàn tiền* (phía AI tuyệt đối không có nút duyệt này).
